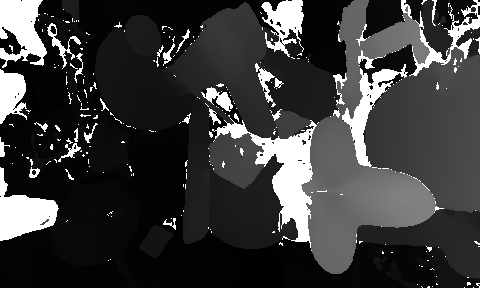
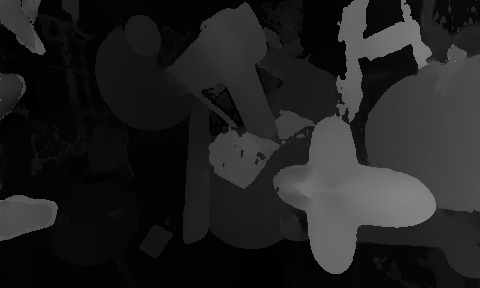
reset threshold

diff --git a/7-depth/src/main.py b/7-depth/src/main.py
@@ -75,7 +75,7 @@ def load_engine(engine_file_path, plugin_path=None):
         return runtime.deserialize_cuda_engine(f.read())
 
 @click.command()
-@click.option("--threshold", type=float, default=0.1, help="Threshold for confidence")
+@click.option("--threshold", type=float, default=0.0, help="Threshold for confidence")
 @click.option("--output_file", type=str, default="./image/disparity.png", help="Output file name")
 @click.option("--left_image", type=str, default="./image/left.png", help="Left image file name")
 @click.option("--right_image", type=str, default="./image/right.png", help="Right image file name")
@@ -147,7 +147,8 @@ def main(threshold, output_file, left_image, right_image, engine_file, plugin_pa
             img = np.reshape(disparity, (INPUT_HEIGHT, INPUT_WIDTH))
             conf = np.reshape(confidence, (INPUT_HEIGHT, INPUT_WIDTH))
 
-            img[conf < threshold] = -1
+            if threshold > 0:
+                img[conf < threshold] = -1
 
             print("Writing output image to file {}".format(output_file))
             # transfer the numpy array to uint8 and save it as grayscale png
